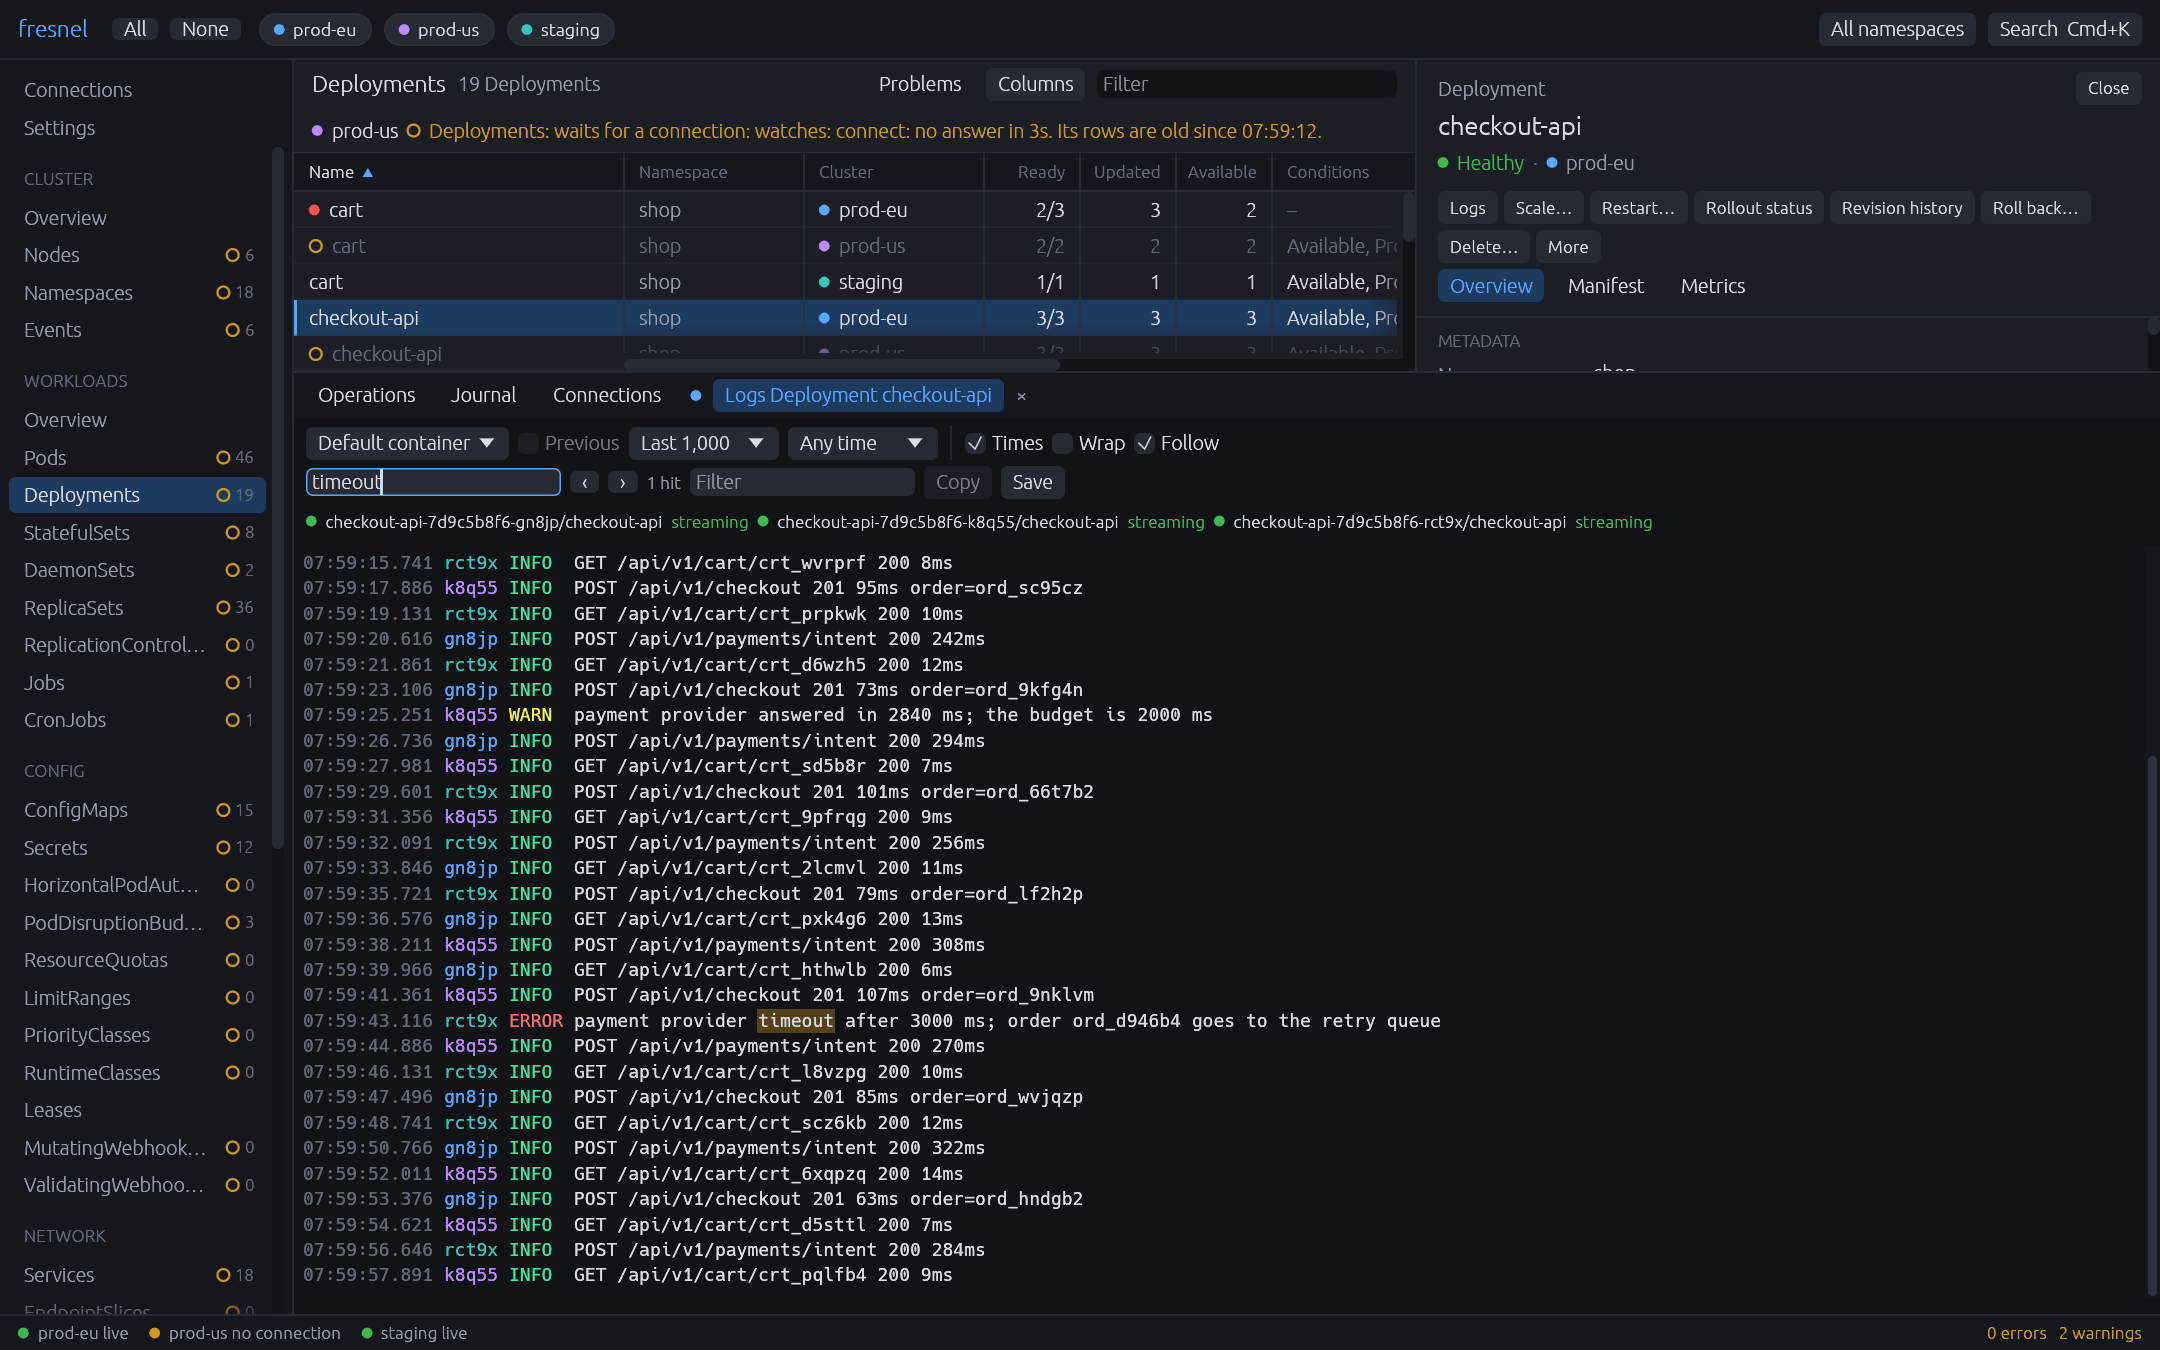
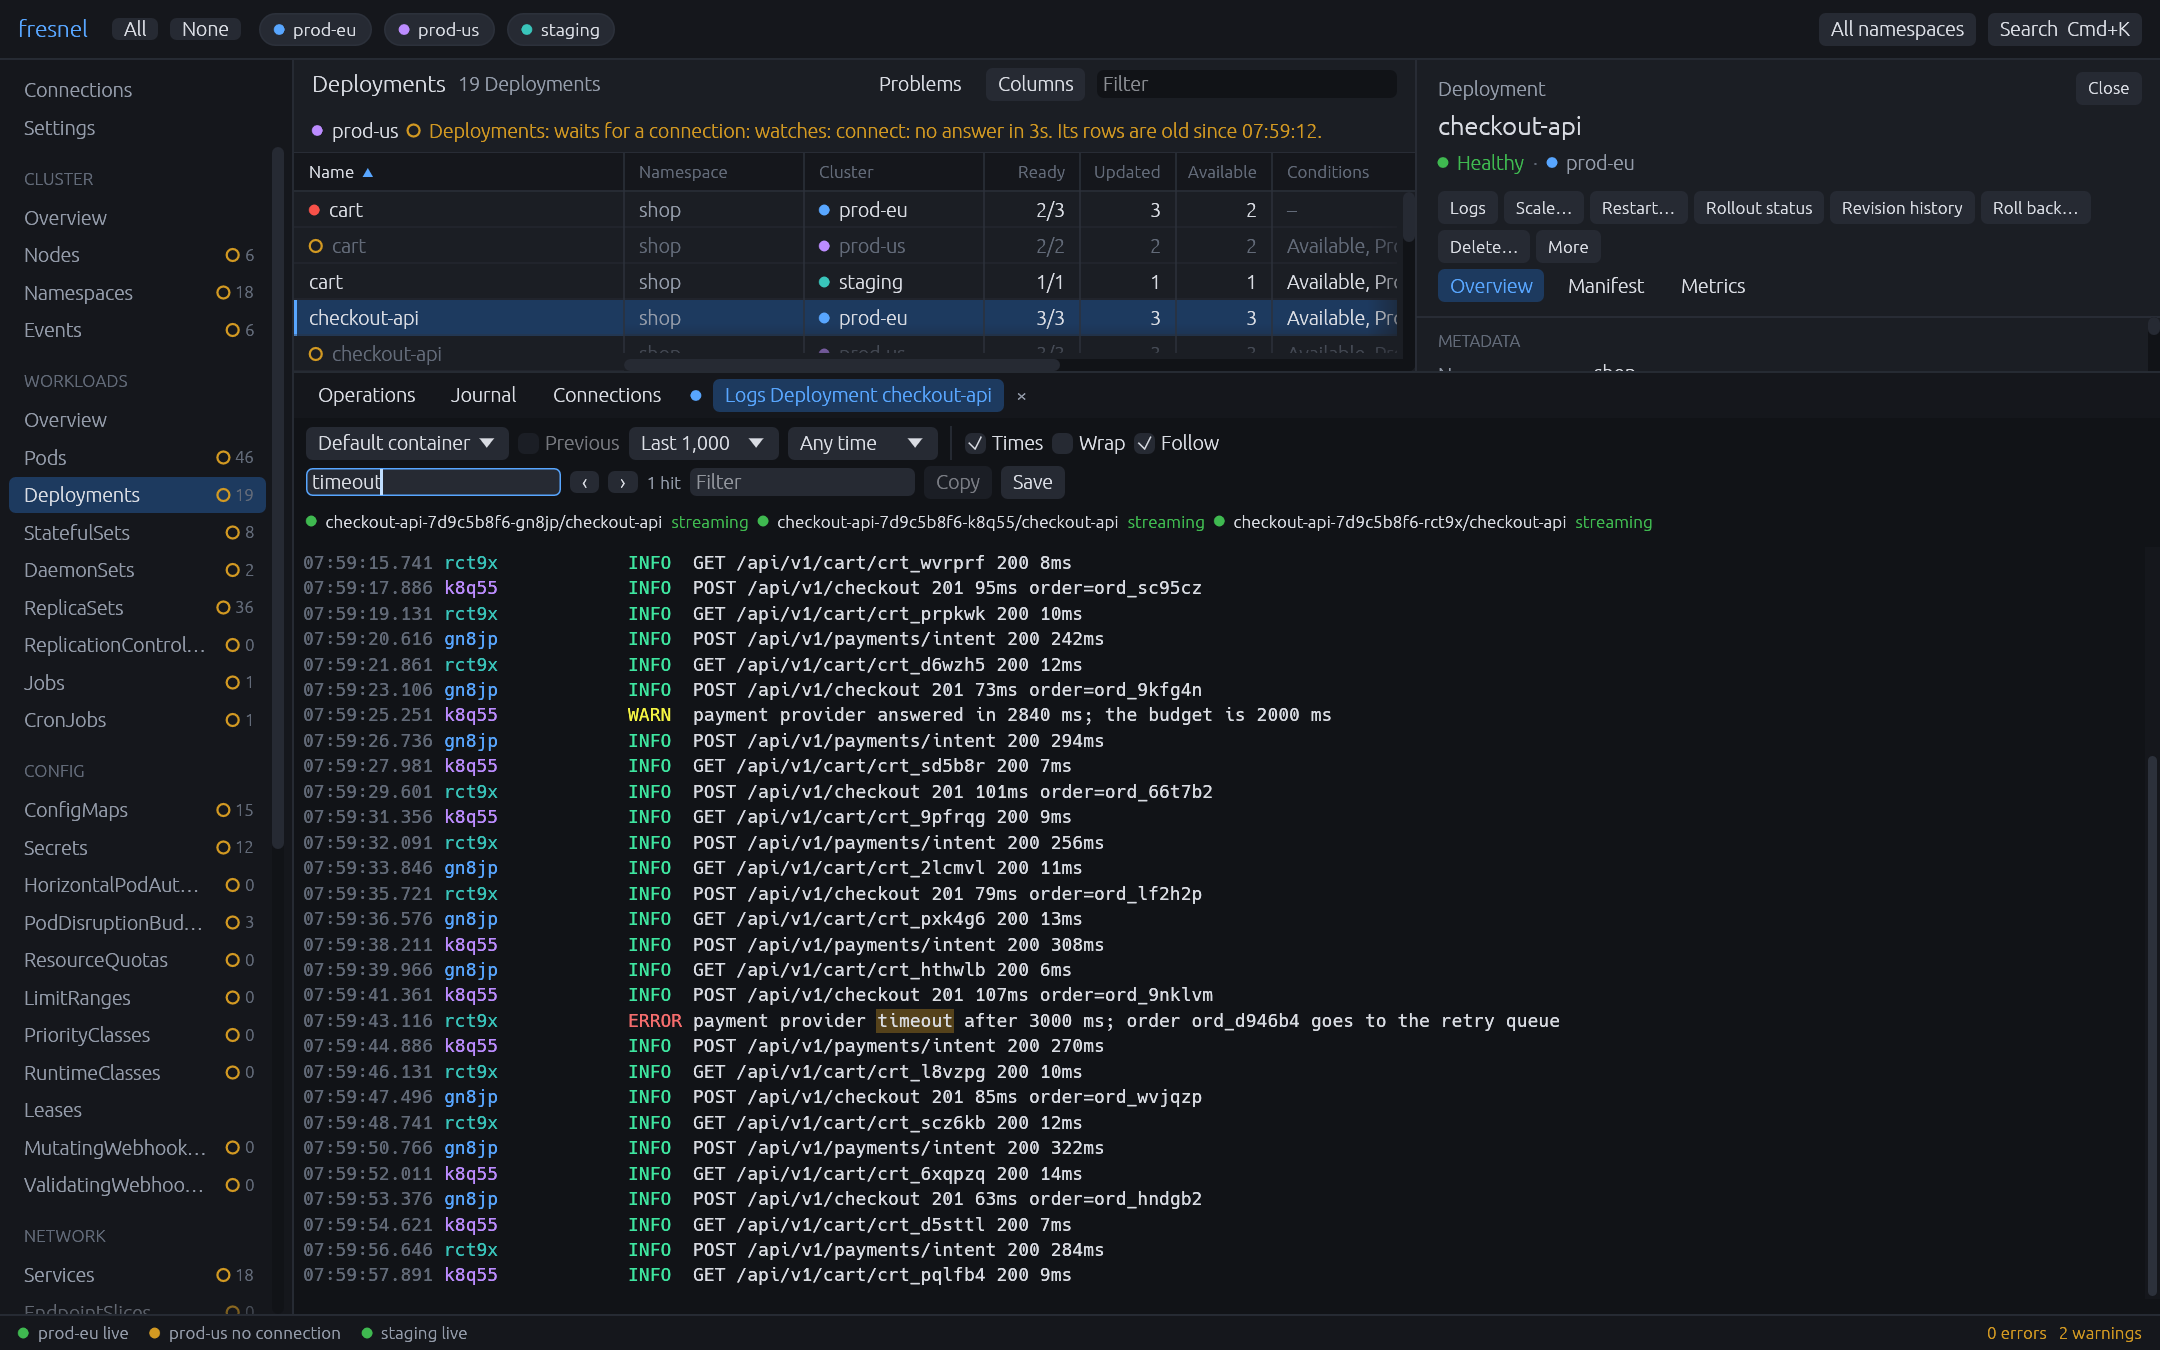
Give the log gutter of the pods of an object the width of a rollout name
The gutter was as wide as its widest name. When the first pod of a new ReplicaSet started,
each name got the hash of its ReplicaSet, and the gutter grew from 6 to 17 columns in the
middle of the view, which moved the text under a user who had scrolled up. The gutter of
the pods of an object now holds at least 16 characters, a hash of up to 10, a dash and the
5-character end of the name, so a rollout leaves it as it is. A Pod view names containers,
which a rollout does not change, and keeps the width of its names. The picture of the
logs of a Deployment is drawn again with the wider gutter.

Changed region(s): [[0.2171, 0.4044, 0.7134, 0.9644]]

diff --git a/crates/fresnel-ui/src/views/logs/pane/draw.rs b/crates/fresnel-ui/src/views/logs/pane/draw.rs
@@ -17,6 +17,9 @@ use crate::theme::{self, Palette, SMALL};
 
 /// The space above the text in a row.
 const ABOVE: f32 = 1.5;
+/// The characters of the name of a pod in a rollout, `7d9c5b8f6-gn8jp`: the hash of its
+/// ReplicaSet has up to 10, a dash, and the end of the pod name 5.
+const ROLLOUT_NAME: usize = 16;
 
 /// What the first row of a line draws besides its text.
 struct Gutter<'a> {
@@ -143,9 +146,13 @@ pub(super) fn source_names(view: &LogView) -> Vec<String> {
 
 /// The columns of the source before the text: the widest name and a space. None for a
 /// view whose lines name no source. The gutter is no wider than its names, so the text of
-/// a view of short names gets the room.
-pub(super) fn source_columns(names: &[String]) -> Option<usize> {
-    names.iter().map(|name| name.chars().count() + 1).max()
+/// a view of short names gets the room, but the gutter of the pods of an object holds a
+/// rollout name from the start: the first pod of a new ReplicaSet gives each name the hash
+/// of its ReplicaSet (`PodNames`), and a gutter that grew then moved the text under a user
+/// who read an earlier line.
+pub(super) fn source_columns(kind: Kind, names: &[String]) -> Option<usize> {
+    let least = if kind == Kind::Pod { 0 } else { ROLLOUT_NAME };
+    names.iter().map(|name| name.chars().count().max(least) + 1).max()
 }
 
 /// A node of the accessibility tree for a row: a screen reader reads the text that the pane
@@ -258,7 +265,27 @@ mod tests {
     #[test]
     fn the_gutter_is_as_wide_as_its_widest_name_and_a_space() {
         let names = |names: &[&str]| names.iter().map(|name| (*name).to_owned()).collect::<Vec<String>>();
-        assert_eq!(source_columns(&names(&["gn8jp", "gn8jp/istio-proxy"])), Some(18));
-        assert_eq!(source_columns(&[]), None, "a view with one source");
+        assert_eq!(source_columns(Kind::Pod, &names(&["app", "istio-proxy"])), Some(12), "the containers of a pod");
+        assert_eq!(source_columns(Kind::Deployment, &names(&["gn8jp", "k8q55"])), Some(ROLLOUT_NAME + 1));
+        let long = names(&["gn8jp/web", "gn8jp/istio-proxy-sidecar"]);
+        assert_eq!(source_columns(Kind::Deployment, &long), Some(26), "a name that is longer than a rollout");
+        assert_eq!(source_columns(Kind::Deployment, &[]), None, "a view with one source");
+    }
+
+    /// The first pod of a new ReplicaSet in a rollout gives each name the hash of its
+    /// ReplicaSet, of up to 10 characters. The gutter keeps its width.
+    #[test]
+    fn a_rollout_does_not_change_the_width_of_the_gutter() {
+        let old = ["checkout-api-7d9c5b8f6-gn8jp", "checkout-api-7d9c5b8f6-k8q55"];
+        let columns = |pods: &[&str]| {
+            let sources: Vec<(&str, &str)> = pods.iter().map(|pod| (*pod, "api")).collect();
+            let names = names(Kind::Deployment, "checkout-api", &sources);
+            (source_columns(Kind::Deployment, &names), names)
+        };
+        let (before, names_before) = columns(&old);
+        let (during, names_during) = columns(&[old[0], old[1], "checkout-api-5f6b7c8d9b-ab12c"]);
+        assert_eq!(names_before, ["gn8jp", "k8q55"]);
+        assert_eq!(names_during, ["7d9c5b8f6-gn8jp", "7d9c5b8f6-k8q55", "5f6b7c8d9b-ab12c"]);
+        assert_eq!(before, during, "the width before and in the rollout");
     }
 }

diff --git a/crates/fresnel-ui/src/views/logs/pane/mod.rs b/crates/fresnel-ui/src/views/logs/pane/mod.rs
@@ -37,7 +37,8 @@ use crate::theme;
 const TIME_COLUMNS: f32 = 13.0;
 /// The most columns of the name of a source, for a view with more than one source: the full
 /// name of a pod of a Deployment has some 26 characters. The gutter is as wide as its widest
-/// name and a space (`draw::source_columns`), so short names leave no gap before the text.
+/// name and a space, and for the pods of an object at least as wide as a rollout name
+/// (`draw::source_columns`), so short names leave little gap before the text.
 const SOURCE_COLUMNS: usize = 32;
 /// The space between the text and the edges of the pane.
 const MARGIN: f32 = 6.0;
@@ -237,7 +238,8 @@ impl Metrics {
         let time = rect.left() + MARGIN;
         let source = if input.times { time + TIME_COLUMNS * column } else { time };
         let names = if input.view.sources.len() > 1 { draw::source_names(input.view) } else { Vec::new() };
-        let text_left = draw::source_columns(&names).map_or(source, |columns| source + columns as f32 * column);
+        let gutter = draw::source_columns(input.view.request.kind, &names);
+        let text_left = gutter.map_or(source, |columns| source + columns as f32 * column);
         let bottom = horizontal.map_or(rect.bottom(), |bar| bar.top());
         let text = Rect::from_min_max(pos2(text_left, rect.top() + 2.0), pos2(vertical.left() - MARGIN, bottom));
         let columns = ((text.width() / column).floor() as usize).max(8);

diff --git a/docs/decisions.md b/docs/decisions.md
@@ -1685,3 +1685,11 @@ The legend of a chart and the gutter of a log view name the pods of one owner wi
 that all their names share, up to a dash: `gn8jp`, `7d9c5b8f6-gn8jp` in a rollout, `0-x7k2p` in
 an Indexed Job. The view names the owner. A pod of a StatefulSet keeps its full name: a number
 alone reads as a value. A gutter name that is too long shows its end, where the names differ.
+
+## The log gutter of the pods of an object holds a rollout name
+
+The gutter of a log view is as wide as its widest name, and for the pods of an object at least
+16 characters: a rollout name, `7d9c5b8f6-gn8jp`, has a ReplicaSet hash of up to 10, a dash and
+an end of 5. Before, the first pod of a new ReplicaSet grew the gutter from 6 to 17 columns,
+which moved the text under a user who read an earlier line. A Pod view, of containers, has
+no minimum.
